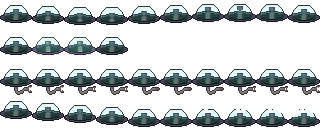
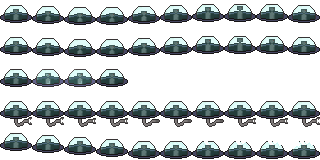
ufo animations merged

diff --git a/src/classes/utility/textures.py b/src/classes/utility/textures.py
@@ -140,11 +140,11 @@ images = {
 
         "Bot": {
 
-            "location": "bots/bot.png",
-            "FramesX": [10],
-            "FramesY": 1,
+            "location": "enemies/ufo enemy/ufo.png",
+            "FramesX": [10, 10, 4, 10, 10],
+            "FramesY": 5,
             "Scale": 3,
-            "AnimationNames": ["idle"]
+            "AnimationNames": ["idle", "walk", "hit", "attack", "dead"]
         }
 }
 
